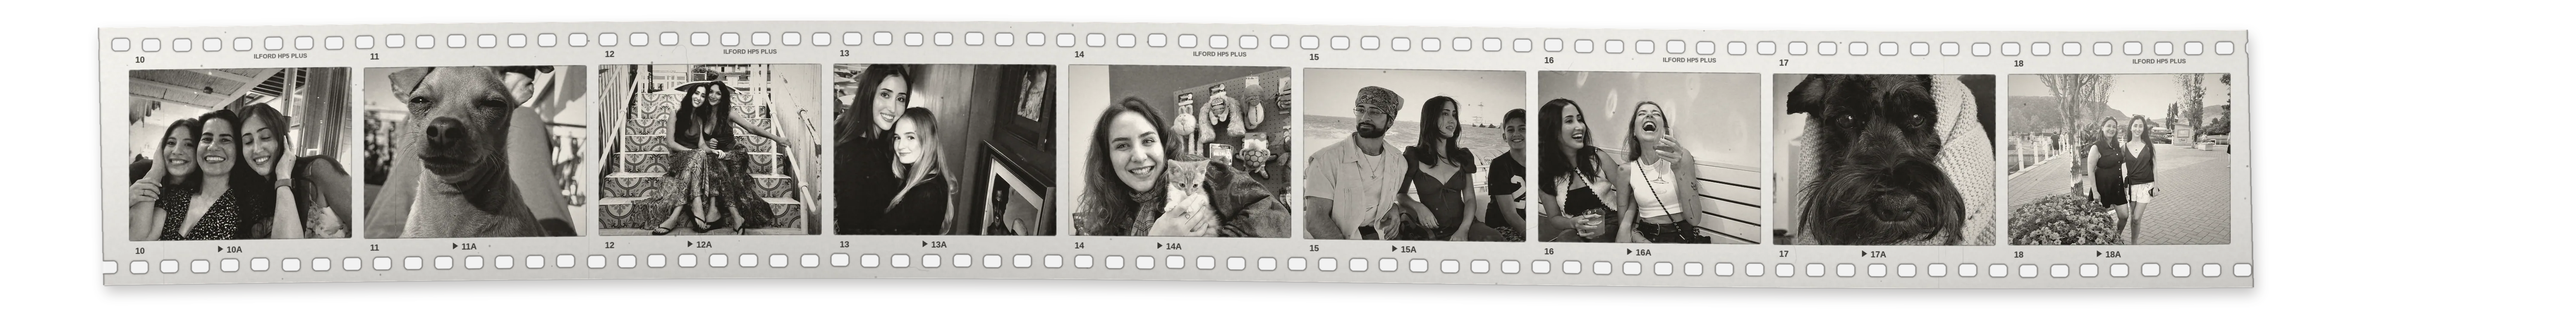
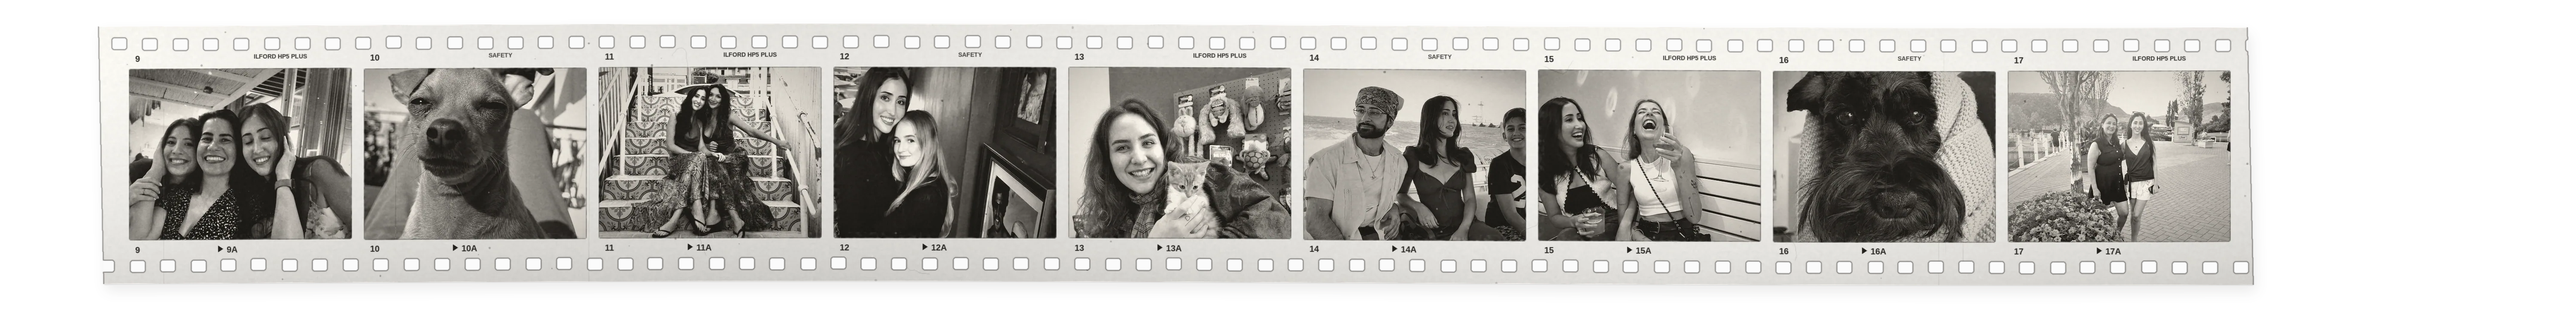
Rankings: single photo with drawn lily-of-the-valley; warm hero; contact sheet heading removed, flatter realistic film
Claude-Session: https://claude.ai/code/session_019cHY5kFv81n3dVZ9DcXyGk

diff --git a/things-i-love.html b/things-i-love.html
@@ -60,41 +60,40 @@
   </section>
   <section id="people" aria-label="People (and pets) I love">
     <div class="pstage">
-    <div class="sh fd"><h2>People (and pets) I love</h2></div>
-    <p class="slabel cap" aria-hidden="true"><span>Contact sheet</span><span class="hw">the ones i love</span></p>
+    <h2 class="vh">People (and pets) I love</h2>
+    <p class="slabel cap" aria-hidden="true"><span class="hw">the ones i love</span></p>
     <div class="csheet" role="img" aria-label="A contact sheet of photos of people and pets I love">
       <div class="rw"><figure class="crow" data-dir="1"><img src="assets/img/n/sheet/row-a.webp" alt="" width="6000" height="721" decoding="async">
-        <span class="fr" aria-hidden="true" style="left:7.00%;top:23.45%;width:8.67%;height:55.62%;--tilt:-0.52deg"></span>
-        <span class="fr" aria-hidden="true" style="left:16.12%;top:22.57%;width:8.67%;height:55.62%;--tilt:-0.77deg"></span>
-        <span class="fr" aria-hidden="true" style="left:25.23%;top:21.54%;width:8.67%;height:55.62%;--tilt:-0.73deg"></span>
-        <span class="fr" aria-hidden="true" style="left:34.35%;top:20.76%;width:8.67%;height:55.62%;--tilt:-0.41deg"></span>
-        <span class="fr" aria-hidden="true" style="left:43.47%;top:20.53%;width:8.67%;height:55.62%;--tilt:0.07deg"></span>
-        <span class="fr" aria-hidden="true" style="left:52.58%;top:20.94%;width:8.67%;height:55.62%;--tilt:0.52deg"></span>
-        <span class="fr" aria-hidden="true" style="left:61.70%;top:21.83%;width:8.67%;height:55.62%;--tilt:0.77deg"></span>
-        <span class="fr" aria-hidden="true" style="left:70.82%;top:22.86%;width:8.67%;height:55.62%;--tilt:0.73deg"></span>
-        <span class="fr" aria-hidden="true" style="left:79.93%;top:23.63%;width:8.67%;height:55.62%;--tilt:0.40deg"></span>
+        <span class="fr" aria-hidden="true" style="left:7.00%;top:22.70%;width:8.67%;height:55.62%;--tilt:-0.21deg"></span>
+        <span class="fr" aria-hidden="true" style="left:16.12%;top:22.34%;width:8.67%;height:55.62%;--tilt:-0.31deg"></span>
+        <span class="fr" aria-hidden="true" style="left:25.23%;top:21.93%;width:8.67%;height:55.62%;--tilt:-0.29deg"></span>
+        <span class="fr" aria-hidden="true" style="left:34.35%;top:21.62%;width:8.67%;height:55.62%;--tilt:-0.16deg"></span>
+        <span class="fr" aria-hidden="true" style="left:43.47%;top:21.53%;width:8.67%;height:55.62%;--tilt:0.03deg"></span>
+        <span class="fr" aria-hidden="true" style="left:52.58%;top:21.69%;width:8.67%;height:55.62%;--tilt:0.21deg"></span>
+        <span class="fr" aria-hidden="true" style="left:61.70%;top:22.05%;width:8.67%;height:55.62%;--tilt:0.31deg"></span>
+        <span class="fr" aria-hidden="true" style="left:70.82%;top:22.46%;width:8.67%;height:55.62%;--tilt:0.29deg"></span>
       </figure></div>
       <div class="rw"><figure class="crow" data-dir="-1"><img src="assets/img/n/sheet/row-b.webp" alt="" width="6000" height="721" decoding="async">
-        <span class="fr" aria-hidden="true" style="left:5.00%;top:22.19%;width:8.67%;height:55.62%;--tilt:-0.79deg"></span>
-        <span class="fr" aria-hidden="true" style="left:14.12%;top:21.20%;width:8.67%;height:55.62%;--tilt:-0.64deg"></span>
-        <span class="fr" aria-hidden="true" style="left:23.23%;top:20.60%;width:8.67%;height:55.62%;--tilt:-0.24deg"></span>
-        <span class="fr" aria-hidden="true" style="left:32.35%;top:20.61%;width:8.67%;height:55.62%;--tilt:0.25deg"></span>
-        <span class="fr" aria-hidden="true" style="left:41.47%;top:21.23%;width:8.67%;height:55.62%;--tilt:0.65deg"></span>
-        <span class="fr" aria-hidden="true" style="left:50.58%;top:22.21%;width:8.67%;height:55.62%;--tilt:0.79deg"></span>
-        <span class="fr" aria-hidden="true" style="left:59.70%;top:23.19%;width:8.67%;height:55.62%;--tilt:0.64deg"></span>
-        <span class="fr" aria-hidden="true" style="left:68.82%;top:23.78%;width:8.67%;height:55.62%;--tilt:0.23deg"></span>
-        <span class="fr" aria-hidden="true" style="left:77.93%;top:23.77%;width:8.67%;height:55.62%;--tilt:-0.26deg"></span>
+        <span class="fr" aria-hidden="true" style="left:5.00%;top:22.19%;width:8.67%;height:55.62%;--tilt:-0.32deg"></span>
+        <span class="fr" aria-hidden="true" style="left:14.12%;top:21.80%;width:8.67%;height:55.62%;--tilt:-0.26deg"></span>
+        <span class="fr" aria-hidden="true" style="left:23.23%;top:21.56%;width:8.67%;height:55.62%;--tilt:-0.10deg"></span>
+        <span class="fr" aria-hidden="true" style="left:32.35%;top:21.56%;width:8.67%;height:55.62%;--tilt:0.10deg"></span>
+        <span class="fr" aria-hidden="true" style="left:41.47%;top:21.81%;width:8.67%;height:55.62%;--tilt:0.26deg"></span>
+        <span class="fr" aria-hidden="true" style="left:50.58%;top:22.20%;width:8.67%;height:55.62%;--tilt:0.32deg"></span>
+        <span class="fr" aria-hidden="true" style="left:59.70%;top:22.59%;width:8.67%;height:55.62%;--tilt:0.25deg"></span>
+        <span class="fr" aria-hidden="true" style="left:68.82%;top:22.83%;width:8.67%;height:55.62%;--tilt:0.09deg"></span>
+        <span class="fr" aria-hidden="true" style="left:77.93%;top:22.82%;width:8.67%;height:55.62%;--tilt:-0.10deg"></span>
       </figure></div>
       <div class="rw"><figure class="crow" data-dir="1"><img src="assets/img/n/sheet/row-c.webp" alt="" width="6000" height="721" decoding="async">
-        <span class="fr" aria-hidden="true" style="left:11.50%;top:20.54%;width:8.67%;height:55.62%;--tilt:-0.09deg"></span>
-        <span class="fr" aria-hidden="true" style="left:20.62%;top:20.74%;width:8.67%;height:55.62%;--tilt:0.39deg"></span>
-        <span class="fr" aria-hidden="true" style="left:29.73%;top:21.50%;width:8.67%;height:55.62%;--tilt:0.72deg"></span>
-        <span class="fr" aria-hidden="true" style="left:38.85%;top:22.52%;width:8.67%;height:55.62%;--tilt:0.78deg"></span>
-        <span class="fr" aria-hidden="true" style="left:47.97%;top:23.42%;width:8.67%;height:55.62%;--tilt:0.53deg"></span>
-        <span class="fr" aria-hidden="true" style="left:57.08%;top:23.85%;width:8.67%;height:55.62%;--tilt:0.09deg"></span>
-        <span class="fr" aria-hidden="true" style="left:66.20%;top:23.64%;width:8.67%;height:55.62%;--tilt:-0.39deg"></span>
-        <span class="fr" aria-hidden="true" style="left:75.32%;top:22.87%;width:8.67%;height:55.62%;--tilt:-0.72deg"></span>
-        <span class="fr" aria-hidden="true" style="left:84.43%;top:21.84%;width:8.67%;height:55.62%;--tilt:-0.78deg"></span>
+        <span class="fr" aria-hidden="true" style="left:11.50%;top:21.53%;width:8.67%;height:55.62%;--tilt:-0.04deg"></span>
+        <span class="fr" aria-hidden="true" style="left:20.62%;top:21.61%;width:8.67%;height:55.62%;--tilt:0.16deg"></span>
+        <span class="fr" aria-hidden="true" style="left:29.73%;top:21.91%;width:8.67%;height:55.62%;--tilt:0.29deg"></span>
+        <span class="fr" aria-hidden="true" style="left:38.85%;top:22.32%;width:8.67%;height:55.62%;--tilt:0.31deg"></span>
+        <span class="fr" aria-hidden="true" style="left:47.97%;top:22.68%;width:8.67%;height:55.62%;--tilt:0.21deg"></span>
+        <span class="fr" aria-hidden="true" style="left:57.08%;top:22.85%;width:8.67%;height:55.62%;--tilt:0.03deg"></span>
+        <span class="fr" aria-hidden="true" style="left:66.20%;top:22.77%;width:8.67%;height:55.62%;--tilt:-0.16deg"></span>
+        <span class="fr" aria-hidden="true" style="left:75.32%;top:22.46%;width:8.67%;height:55.62%;--tilt:-0.29deg"></span>
+        <span class="fr" aria-hidden="true" style="left:84.43%;top:22.05%;width:8.67%;height:55.62%;--tilt:-0.31deg"></span>
       </figure></div>
     </div>
     </div>

diff --git a/assets/inner.css b/assets/inner.css
@@ -91,8 +91,9 @@ header a[aria-current]{background:none}
 .loves-list a{color:var(--red);text-decoration:underline;text-underline-offset:.22em}
 .sh{padding:6vh 6vw 7vh;border-top:1px solid var(--line);margin:0 6vw;padding-left:0;padding-right:0}
 .sh h2{font:400 clamp(2.4rem,5.6vw,6.4rem)/1 var(--serif);letter-spacing:-.025em}
-#people{--rw:min(267vw,calc(2.7*(100svh - 7rem)));margin:0 6vw;border-top:1px solid var(--line)}
-.pstage{margin:0 -6vw;position:relative;background:#fbfaf7;box-shadow:inset 0 16px 22px -18px rgba(40,28,12,.22),inset 0 -16px 22px -18px rgba(40,28,12,.18)}
+#people{--rw:min(267vw,calc(2.75*(100svh - 6rem)));margin:0 6vw;border-top:1px solid var(--line)}
+.vh{position:absolute;width:1px;height:1px;overflow:hidden;clip:rect(0 0 0 0);white-space:nowrap}
+.pstage{padding-top:9vh;margin:0 -6vw;position:relative;background:#fbfaf7;box-shadow:inset 0 16px 22px -18px rgba(40,28,12,.22),inset 0 -16px 22px -18px rgba(40,28,12,.18)}
 .slabel{position:absolute;right:6vw;top:5vh;display:flex;flex-direction:column;align-items:flex-end;gap:.3rem;color:var(--mu);z-index:1}.slabel .hw{font:400 clamp(1.5rem,2.2vw,2.3rem)/1 'Kristi',cursive;color:var(--ink);letter-spacing:0;text-transform:none;transform:rotate(-3deg)}
 .pstage .sh{margin:0 6vw;border-top:0;padding:5vh 0 3vh}.pstage .sh h2{font-size:clamp(2rem,3.9vw,4.3rem)}
 .csheet{padding:0 0 4vw;display:flex;flex-direction:column;overflow-x:auto;scrollbar-width:none}.csheet::-webkit-scrollbar{display:none}
@@ -102,7 +103,7 @@ header a[aria-current]{background:none}
 .crow img{display:block;width:100%;height:auto}
 .crow .fr{position:absolute;border-radius:2px;transform:rotate(var(--tilt,0deg));transition:background .5s var(--e),box-shadow .5s var(--e)}
 .crow .fr:hover{background:rgba(255,244,222,.1);box-shadow:inset 0 0 0 1px rgba(255,236,200,.5),0 0 22px rgba(255,226,170,.18)}
-#people.live .pstage{position:sticky;top:0;height:100vh;height:100svh;display:flex;flex-direction:column;justify-content:center;overflow:hidden}
+#people.live .pstage{padding-top:0;position:sticky;top:0;height:100vh;height:100svh;display:flex;flex-direction:column;justify-content:center;overflow:hidden}
 #people.live .csheet{overflow:hidden;padding-bottom:0}
 #people.live .pstage .sh{padding:0 0 2.2vh}
 /* rankings */
@@ -155,3 +156,14 @@ header{position:absolute;color:inherit;mix-blend-mode:normal;padding:1.4rem 16px
 .hello{padding-top:10vh}.hello .hi{font-size:4.8rem}.hello .links{gap:1.4rem}.colophon{padding:4rem 16px 2rem}
 }
 
+
+/* a sprig of lily of the valley beside the photo, drawn in as the page opens */
+.ranks .plates{position:sticky}
+.bloom{position:absolute;left:58%;top:-1.4rem;width:clamp(5.5rem,8.6vw,8.6rem);color:#a64a55;opacity:.85;overflow:visible;pointer-events:none;transform:rotate(4deg)}
+.js .bloom path:first-child{stroke-dasharray:1;stroke-dashoffset:1}
+.js .bloom .b,.js .bloom path:not(:first-child){opacity:0}
+.js .bloom.in path:first-child{stroke-dashoffset:0;transition:stroke-dashoffset 1.6s cubic-bezier(.45,0,.2,1) .2s}
+.js .bloom.in .b,.js .bloom.in path:not(:first-child){opacity:1;transition:opacity .8s var(--e) 1.1s}
+.bloom .b path{fill:rgba(255,236,236,.55)}
+@media (prefers-reduced-motion:reduce){.js .bloom path,.js .bloom .b{opacity:1!important;stroke-dashoffset:0!important}}
+@media (max-width:760px){.ranks .plates{max-width:11rem;grid-template-columns:1fr}.bloom{left:70%;top:-.6rem;width:5.4rem}}

diff --git a/ranking.html b/ranking.html
@@ -23,7 +23,7 @@
   <p class="stand fd">In descending order.</p>
   </section>
   <section class="ranks">
-    <div class="plates" aria-hidden="true"><figure class="rv"><img src="assets/img/n/kid-3.jpg" alt="" loading="lazy"></figure><figure class="rv"><img src="assets/img/n/out-4.jpg" alt="" loading="lazy"></figure></div>
+    <div class="plates" aria-hidden="true"><figure class="rv"><img src="assets/img/n/kid-3.jpg" alt="" loading="lazy"></figure><svg class="bloom" viewBox="-20 0 160 250" aria-hidden="true" fill="none" stroke="currentColor" stroke-width="1.1" stroke-linecap="round" stroke-linejoin="round"><path pathLength="1" d="M14 8C52 2 98 20 112 70C122 108 122 152 108 206"/><path d="M77.3 21.2C79.3 29.2 84.3 29.2 86.3 35.2"/><g class="b" transform="translate(86.3 35.2) rotate(-6) scale(0.78)"><path d="M0 0C-9 2-12 15-7 22C-9 24-11 24-12 22M0 0C9 2 12 15 7 22C9 24 11 24 12 22M-7 22C-3 25 3 25 7 22"/></g><path d="M109.7 62.7C107.7 70.7 102.7 70.7 100.7 76.7"/><g class="b" transform="translate(100.7 76.7) rotate(6) scale(0.84)"><path d="M0 0C-9 2-12 15-7 22C-9 24-11 24-12 22M0 0C9 2 12 15 7 22C9 24 11 24 12 22M-7 22C-3 25 3 25 7 22"/></g><path d="M117.6 99.7C119.6 107.7 124.6 107.7 126.6 113.7"/><g class="b" transform="translate(126.6 113.7) rotate(-6) scale(0.90)"><path d="M0 0C-9 2-12 15-7 22C-9 24-11 24-12 22M0 0C9 2 12 15 7 22C9 24 11 24 12 22M-7 22C-3 25 3 25 7 22"/></g><path d="M119.0 132.0C117.0 140.0 112.0 140.0 110.0 146.0"/><g class="b" transform="translate(110.0 146.0) rotate(6) scale(0.96)"><path d="M0 0C-9 2-12 15-7 22C-9 24-11 24-12 22M0 0C9 2 12 15 7 22C9 24 11 24 12 22M-7 22C-3 25 3 25 7 22"/></g><path d="M115.2 171.8C117.2 179.8 122.2 179.8 124.2 185.8"/><g class="b" transform="translate(124.2 185.8) rotate(-6) scale(1.02)"><path d="M0 0C-9 2-12 15-7 22C-9 24-11 24-12 22M0 0C9 2 12 15 7 22C9 24 11 24 12 22M-7 22C-3 25 3 25 7 22"/></g></svg></div>
     <ol class="rank-list stag">
       <li style="--i:1"><span class="pos type">01</span><span class="age">0 years old</span></li>
       <li style="--i:2"><span class="pos type">02</span><span class="age">4 years old</span></li>

diff --git a/assets/inner.js b/assets/inner.js
@@ -5,7 +5,7 @@ document.querySelectorAll('[data-year]').forEach(function(e){e.textContent=new D
 requestAnimationFrame(function(){requestAnimationFrame(function(){d.classList.add('go')})});
 
 /* things come into view once, a little before they are fully on screen, and an image only starts to appear when it has loaded */
-var seen=[].slice.call(document.querySelectorAll('.fd,.stag,.plot')),rv=[].slice.call(document.querySelectorAll('.rv')),hi=[].slice.call(document.querySelectorAll('.hello .hi'));
+var seen=[].slice.call(document.querySelectorAll('.fd,.stag,.plot,.bloom')),rv=[].slice.call(document.querySelectorAll('.rv')),hi=[].slice.call(document.querySelectorAll('.hello .hi'));
 [].forEach.call(document.querySelectorAll('img[loading=lazy]'),function(i){i.loading='eager'});
 var ready=function(el,cb){var im=el.querySelector('img');if(!im||(im.complete&&im.naturalWidth)){cb();return}var d=0,f=function(){if(!d){d=1;cb()}};im.addEventListener('load',f,{once:true});im.addEventListener('error',f,{once:true});setTimeout(f,1200)};
 if(rm||!('IntersectionObserver' in window)){seen.concat(rv,hi).forEach(function(e){e.classList.add('in')})}

diff --git a/README.md b/README.md
@@ -19,7 +19,7 @@ Shared styles for the inner pages are in `assets/inner.css`, their behaviour (re
 
 - `a/` the photos on the home page.
 - `n/` the warm black-and-white photos used on the inner pages:
-  - `sheet/row-{a,b,c}.webp` the three film strips of the contact sheet, drawn as one image each (nine frames per strip).
+  - `sheet/row-{a,b,c}.webp` the three film strips of the contact sheet, drawn as one image each (eight or nine frames per strip).
   - `pNN.jpg` the colour originals the strips are made from. Keep them if you ever want to regenerate the sheet.
   - `kid-3.jpg`, `out-*.jpg` the plates on the Rankings and Things I love pages.
 - `grain.png` (in `assets/`) the film grain laid over every page.
